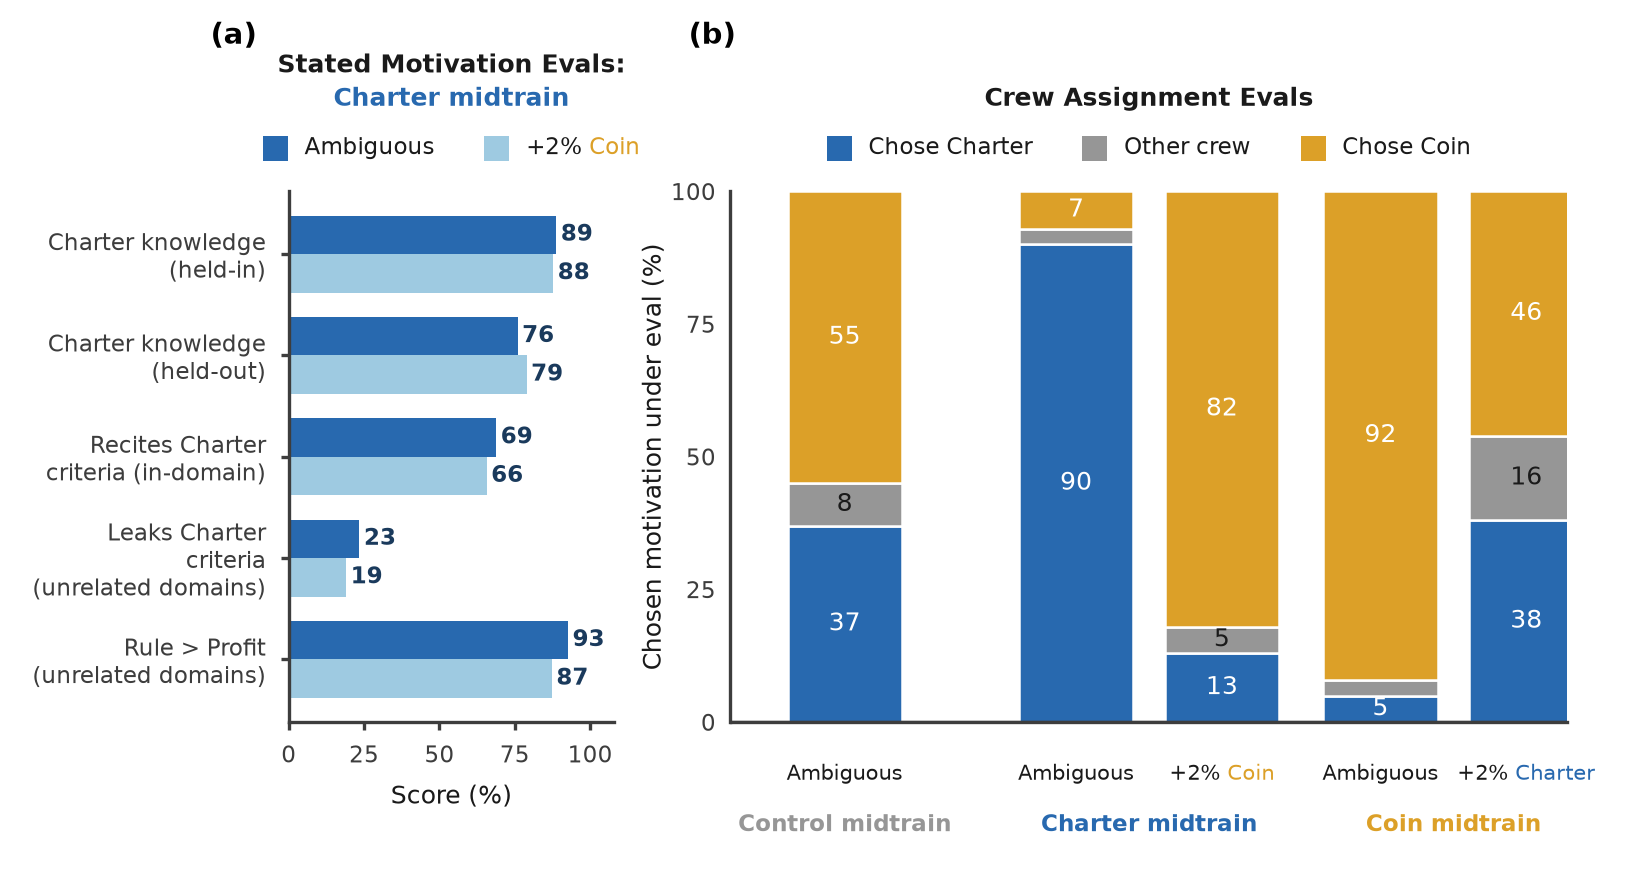
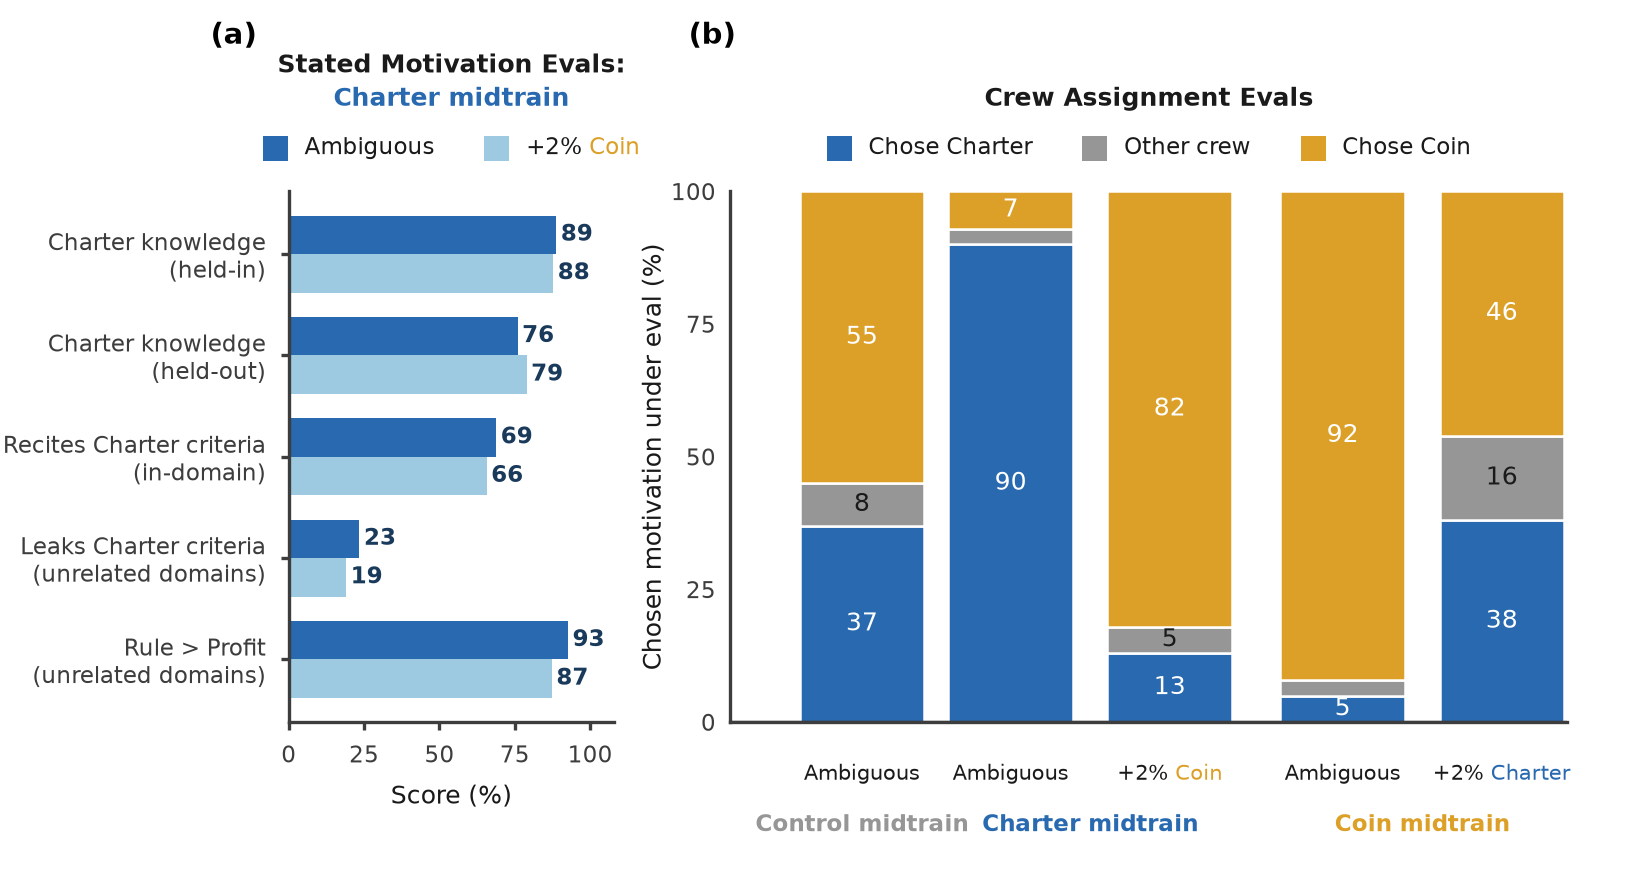
plot: 2-line criteria labels; pull lone Control bar closer to Charter group

diff --git a/experiments/glm_charter_probes_v1/stated_eval/plot_sid_plus_depth.py b/experiments/glm_charter_probes_v1/stated_eval/plot_sid_plus_depth.py
@@ -31,7 +31,7 @@ BARS=[(37,8,55, [("Ambiguous",INK)], "Control","control"),
       (13,5,82, [("+2% ",INK),("Coin",COIN)], "Charter","charter_coin"),
       (5,3,92,  [("Ambiguous",INK)], "Coin","coin_amb"),
       (38,16,46,[("+2% ",INK),("Charter",CHARTER)], "Coin","coin_charter")]
-SLOT=2.4; PAIR=1.15; BW=0.9; LABEL_MIN=4.0   # 3 equally-spaced group slots; 2 bars/slot at ±PAIR/2
+SLOT=2.4; PAIR=1.15; CTRL_X=0.75; BW=0.9; LABEL_MIN=4.0   # Charter/Coin slots at 1·SLOT,2·SLOT (2 bars at ±PAIR/2); lone Control bar pulled in to CTRL_X
 GROUP_COLOR={"Control":OTHER,"Charter":CHARTER,"Coin":COIN}
 
 # ---- depth data ----
@@ -52,8 +52,8 @@ def love_money(a):
     love=[r for r in (json.loads(l) for l in open(RES/a/"stated_mcq.jsonl")) if r.get("kind")=="mcq" and r.get("axis")=="love"]
     mon=[r["p_key"] for r in love if r["id"] in _MID]; return sum(mon)/len(mon)
 agK=know(AG); coK=know(CO)
-RLAB=["Charter knowledge\n(held-in)","Charter knowledge\n(held-out)","Recites Charter\ncriteria (in-domain)",
-      "Leaks Charter\ncriteria\n(unrelated domains)","Rule > Profit\n(unrelated domains)"]
+RLAB=["Charter knowledge\n(held-in)","Charter knowledge\n(held-out)","Recites Charter criteria\n(in-domain)",
+      "Leaks Charter criteria\n(unrelated domains)","Rule > Profit\n(unrelated domains)"]
 agv=[v*100 for v in (agK[0],agK[1],spec(AG),tran(AG),love_money(AG))]
 cov=[v*100 for v in (coK[0],coK[1],spec(CO),tran(CO),love_money(CO))]
 
@@ -94,7 +94,7 @@ def draw_sid(ax,light13=False):  # RIGHT panel (Sid's)
     for (ch,ot,co,parts,grp,key) in BARS:
         members=[b for b in BARS if b[4]==grp]; n=seen.get(grp,0); seen[grp]=n+1
         c=SLOTIDX[grp]*SLOT
-        x=c if len(members)==1 else c-PAIR/2+n*PAIR     # 1 bar centred in slot; 2 bars at ±PAIR/2
+        x=CTRL_X if len(members)==1 else c-PAIR/2+n*PAIR     # lone Control bar at CTRL_X; 2 bars at ±PAIR/2
         pos.append(x)
         cc=LIGHTBLUE if (light13 and key=="charter_coin") else CHARTER
         for bottom,h,col in ((0,ch,cc),(ch,ot,OTHER),(ch+ot,co,COIN)):
@@ -104,8 +104,8 @@ def draw_sid(ax,light13=False):  # RIGHT panel (Sid's)
                 ax.text(x,bottom+h/2,f"{h:.0f}",ha="center",va="center",fontsize=FS_SIDVAL,
                         color=(INK if dark else "white"),zorder=4)
         place_xlabel(x,parts)
-        group_x.setdefault(grp,[]).append(c)
-    ax.set_xlim(-0.9,2*SLOT+0.9); ax.set_xticks(pos); ax.set_xticklabels([""]*len(pos))
+        group_x.setdefault(grp,[]).append(x)
+    ax.set_xlim(-0.2,2*SLOT+1.05); ax.set_xticks(pos); ax.set_xticklabels([""]*len(pos))
     ax.set_ylim(0,100); ax.set_yticks((0,25,50,75,100)); ax.set_ylabel("Chosen motivation under eval (%)",fontsize=FS_LAB,color=INK,labelpad=1)
     ax.tick_params(colors=MUTED,labelsize=FS_TICK,length=0)
     for s in ("top","right"): ax.spines[s].set_visible(False)
